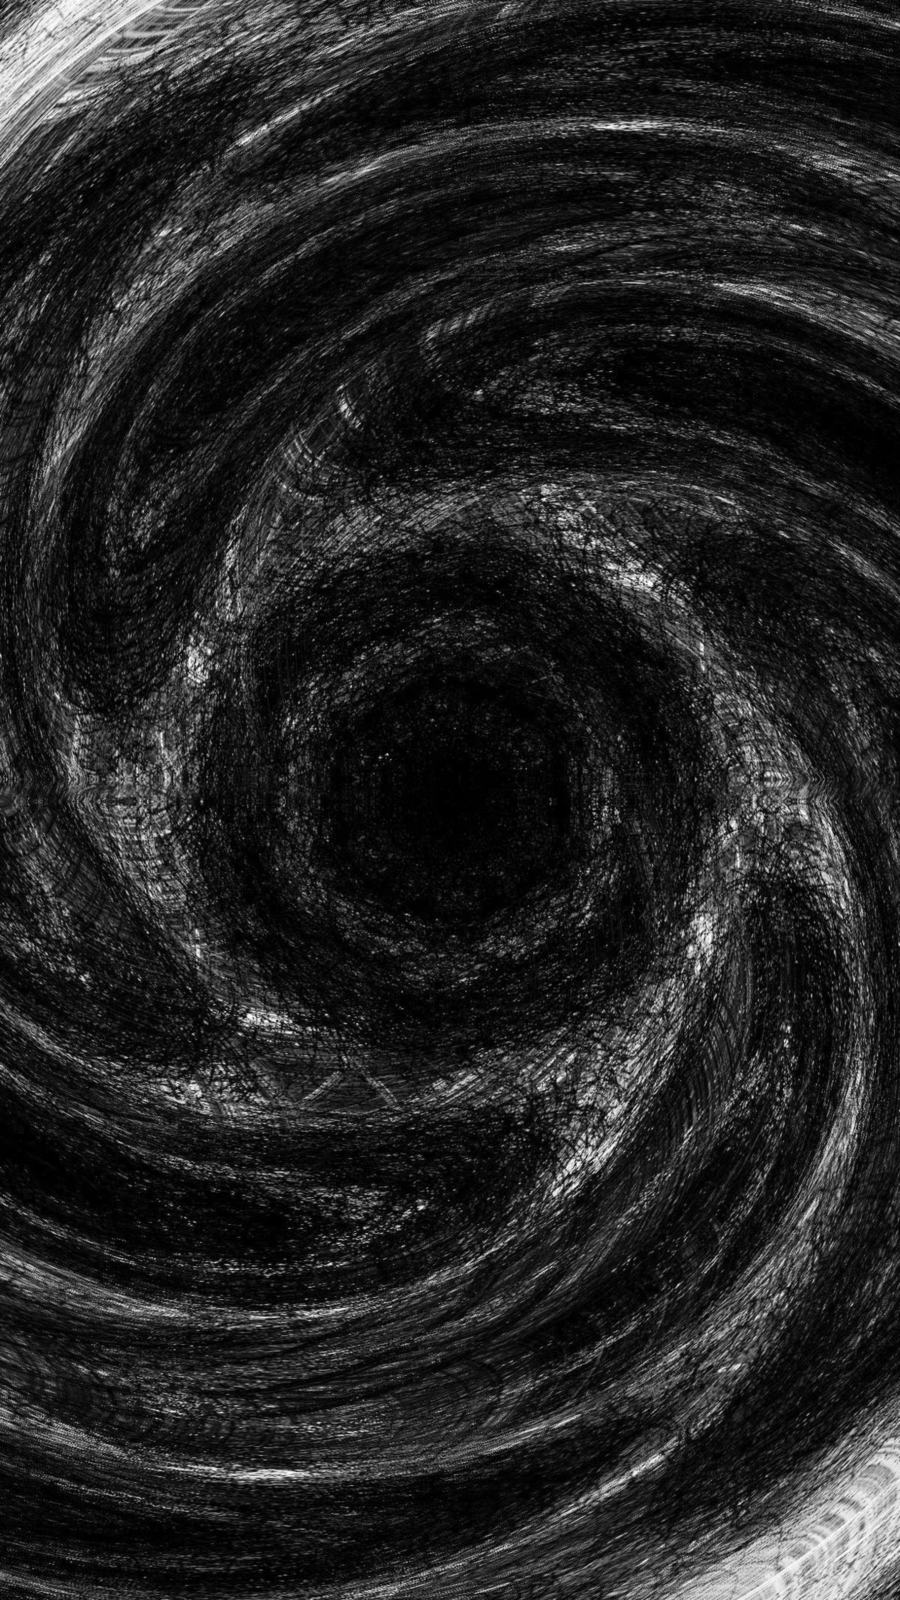
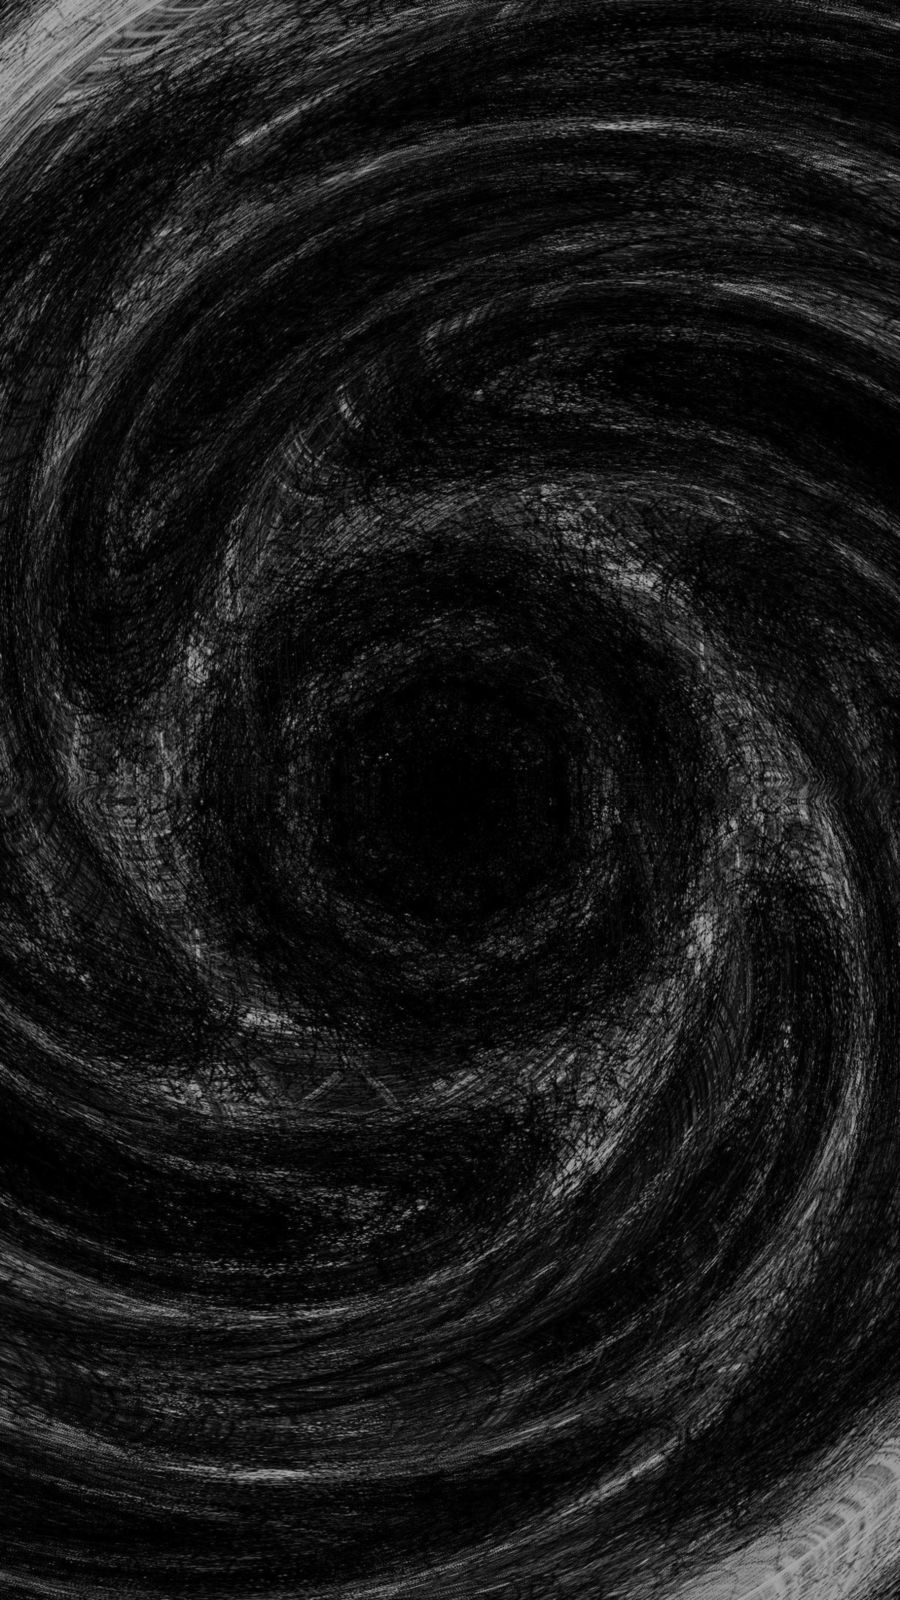
TradeFortis: darker swirl behind text-heavy tabs for readability

diff --git a/docs/index.html b/docs/index.html
@@ -11,14 +11,14 @@
 <link rel="apple-touch-icon" sizes="180x180" href="assets/icons/apple-touch-icon.png">
 <link rel="icon" type="image/png" sizes="192x192" href="assets/icons/icon-192.png">
 <link rel="manifest" href="manifest.webmanifest">
-<meta name="fd-version" content="2242000b1908">
+<meta name="fd-version" content="588867a35eea">
 <meta name="mobile-web-app-capable" content="yes">
 <meta name="apple-mobile-web-app-title" content="FlowDesk">
 <meta name="application-name" content="FlowDesk">
 <meta name="format-detection" content="telephone=no">
 <link rel="preconnect" href="https://fonts.googleapis.com"><link rel="preconnect" href="https://fonts.gstatic.com" crossorigin>
 <link href="https://fonts.googleapis.com/css2?family=Inter:wght@400;500;600;700;800&family=Cormorant+Garamond:wght@500;600;700&family=Playfair+Display:ital,wght@0,600;0,700;1,600&family=JetBrains+Mono:wght@500;600&display=swap" rel="stylesheet">
-<link rel="stylesheet" href="css/style.css?v=2242000b1908">
+<link rel="stylesheet" href="css/style.css?v=588867a35eea">
 </head>
 <body>
 <div id="splash">
@@ -85,15 +85,15 @@
   <a href="https://www.tradingview.com/" target="_blank" rel="noopener">Charts by TradingView</a>
 </footer>
 
-<script src="js/lightweight-charts.js?v=2242000b1908"></script>
-<script src="js/util.js?v=2242000b1908"></script>
-<script src="js/demo.js?v=2242000b1908"></script>
-<script src="js/api.js?v=2242000b1908"></script>
-<script src="js/fx.js?v=2242000b1908"></script>
-<script src="js/anim.js?v=2242000b1908"></script>
-<script src="js/charts.js?v=2242000b1908"></script>
-<script src="js/views.js?v=2242000b1908"></script>
-<script src="js/app.js?v=2242000b1908"></script>
-<script src="js/update.js?v=2242000b1908"></script>
+<script src="js/lightweight-charts.js?v=588867a35eea"></script>
+<script src="js/util.js?v=588867a35eea"></script>
+<script src="js/demo.js?v=588867a35eea"></script>
+<script src="js/api.js?v=588867a35eea"></script>
+<script src="js/fx.js?v=588867a35eea"></script>
+<script src="js/anim.js?v=588867a35eea"></script>
+<script src="js/charts.js?v=588867a35eea"></script>
+<script src="js/views.js?v=588867a35eea"></script>
+<script src="js/app.js?v=588867a35eea"></script>
+<script src="js/update.js?v=588867a35eea"></script>
 </body>
 </html>

diff --git a/docs/js/app.js b/docs/js/app.js
@@ -24,7 +24,7 @@ const App = {
     { id: 'tfeye', name: 'TradeFortis · the gaze', src: 'assets/bg/tf-eye.jpg?v=2', msrc: 'assets/bg/tf-eye-m.jpg?v=2' },
     { id: 'tfsamurai', name: 'TradeFortis · samurai', src: 'assets/bg/tf-samurai.jpg?v=2', msrc: 'assets/bg/tf-samurai-m.jpg?v=2' },
     { id: 'tfburst', name: 'TradeFortis · into the light', src: 'assets/bg/tf-burst.jpg?v=2', msrc: 'assets/bg/tf-burst-m.jpg?v=2' },
-    { id: 'tfswirl', name: 'TradeFortis · swirl', src: 'assets/bg/tf-swirl.jpg?v=2', msrc: 'assets/bg/tf-swirl-m.jpg?v=2' },
+    { id: 'tfswirl', name: 'TradeFortis · swirl', src: 'assets/bg/tf-swirl.jpg?v=3', msrc: 'assets/bg/tf-swirl-m.jpg?v=3' },
     { id: 'ascend', name: 'Ascend (generated)', art: 'ascend' },
     { id: 'flow', name: 'Order flow (generated)', art: 'flow' },
     { id: 'none', name: 'Plain' },
